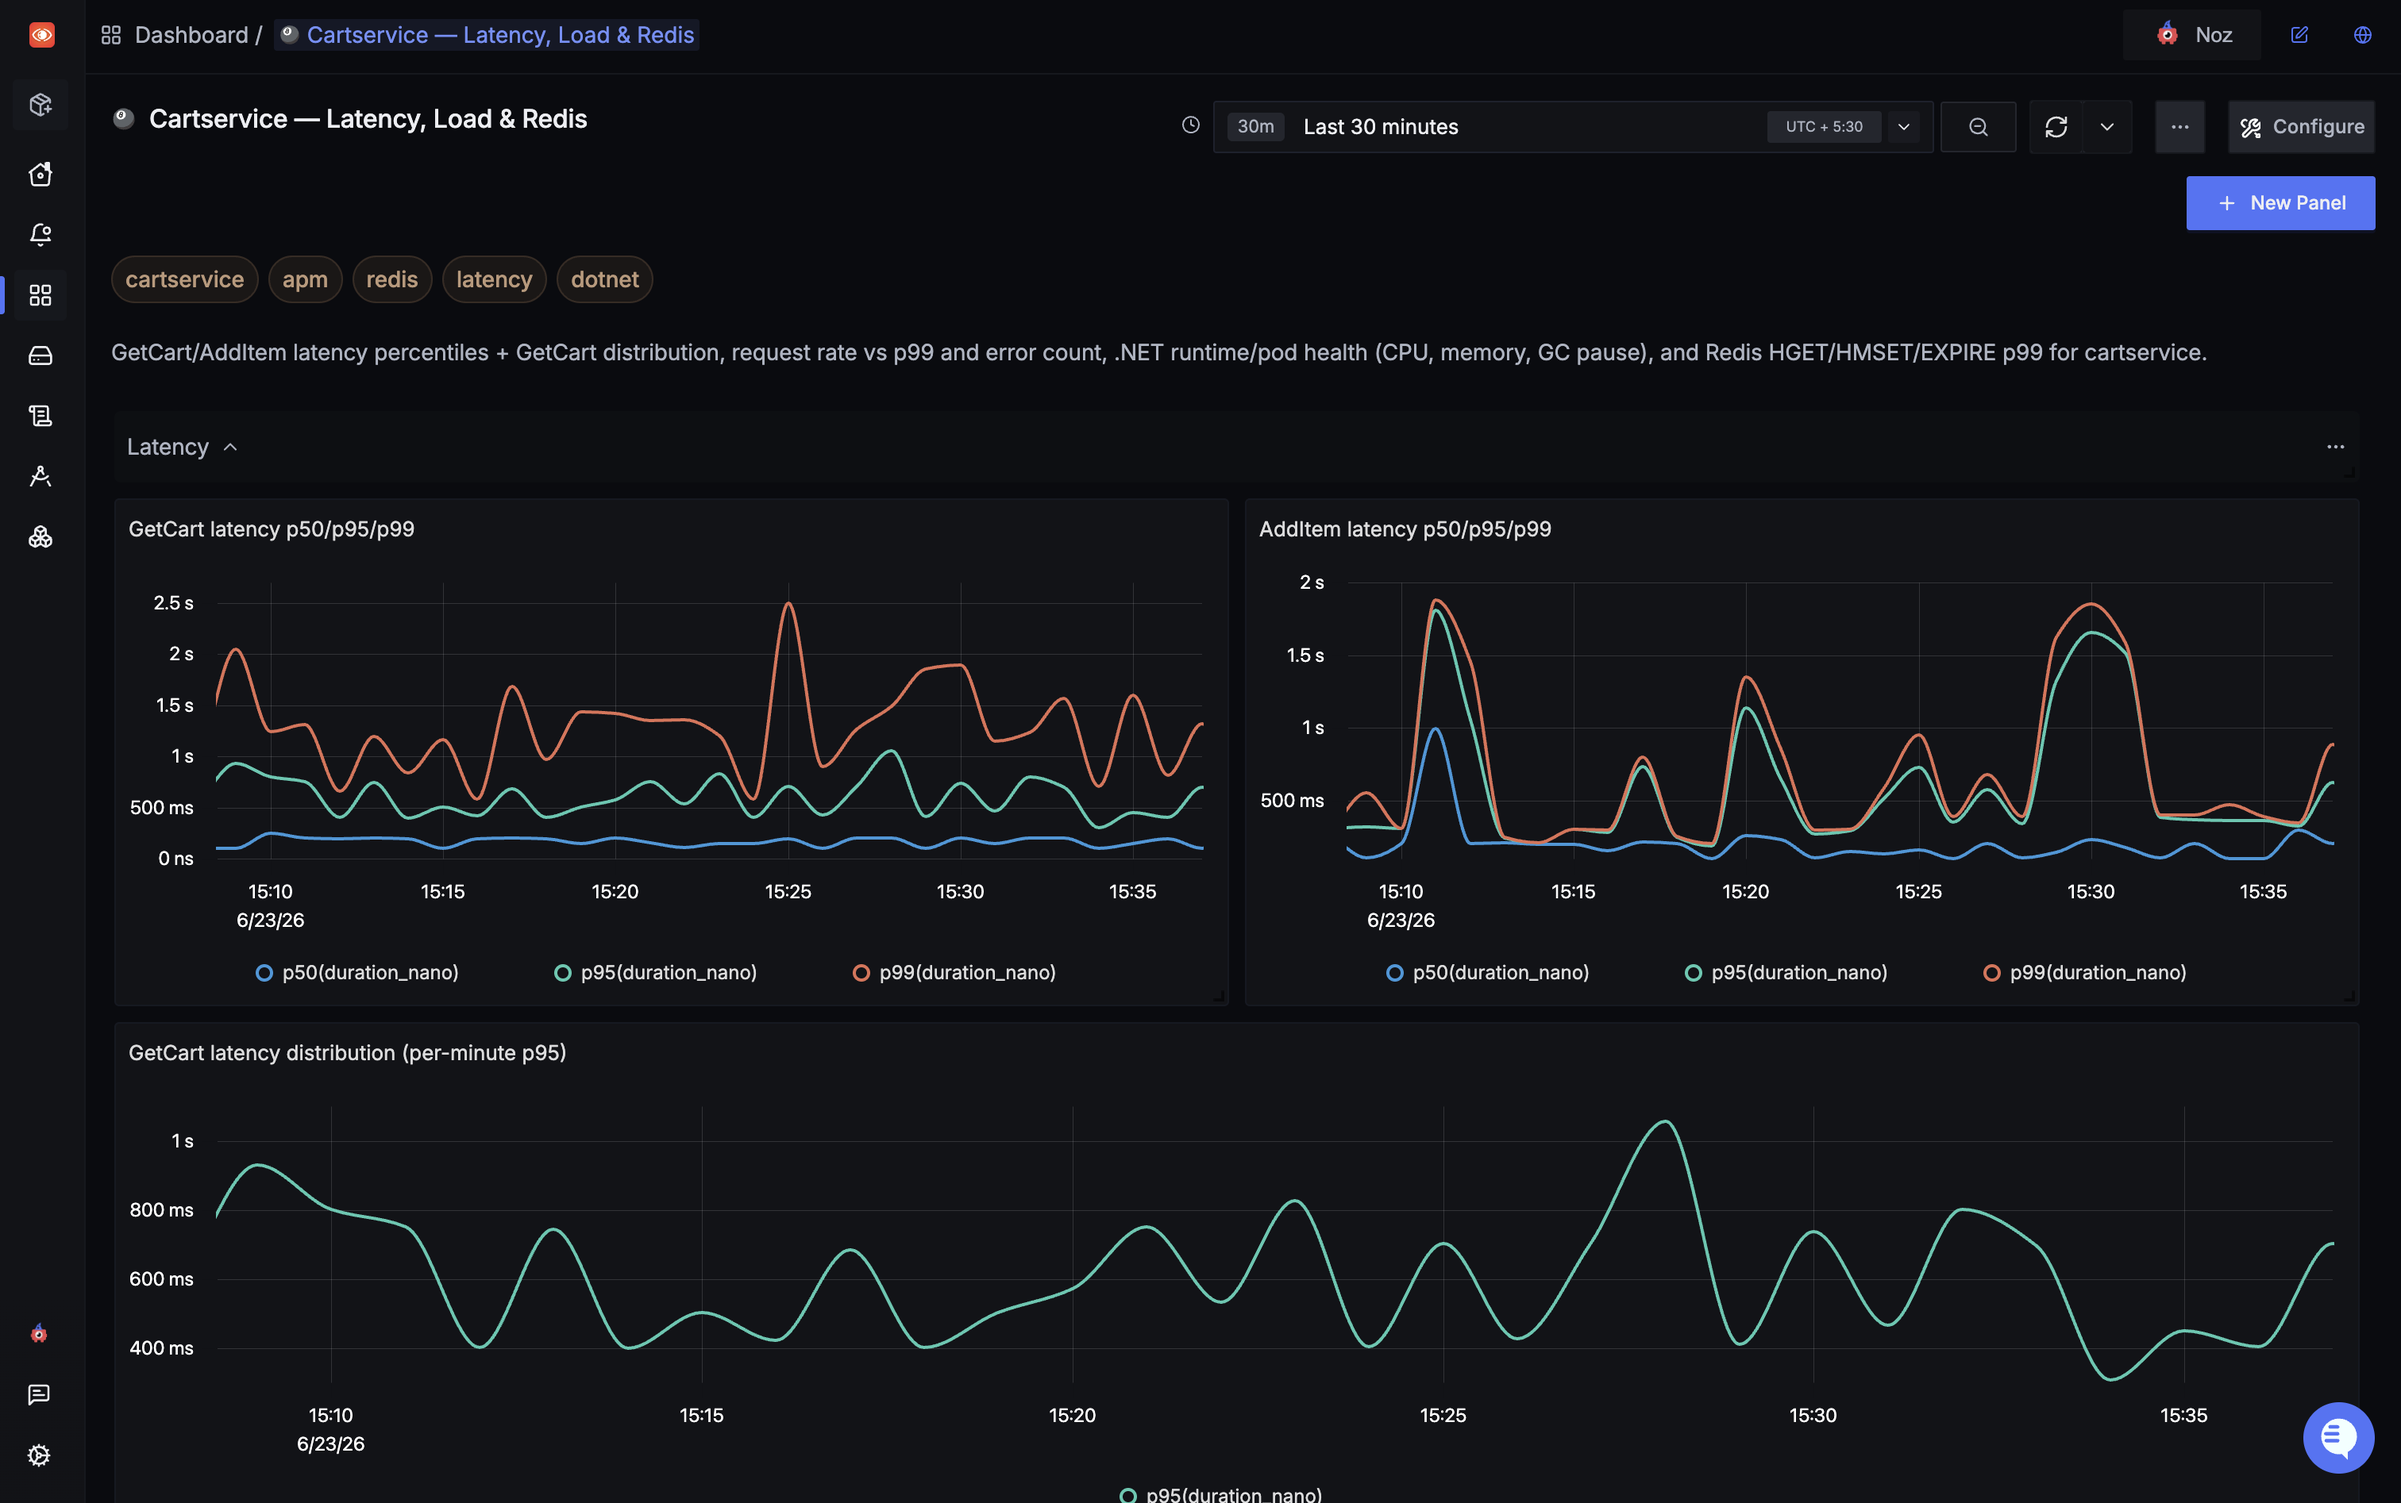
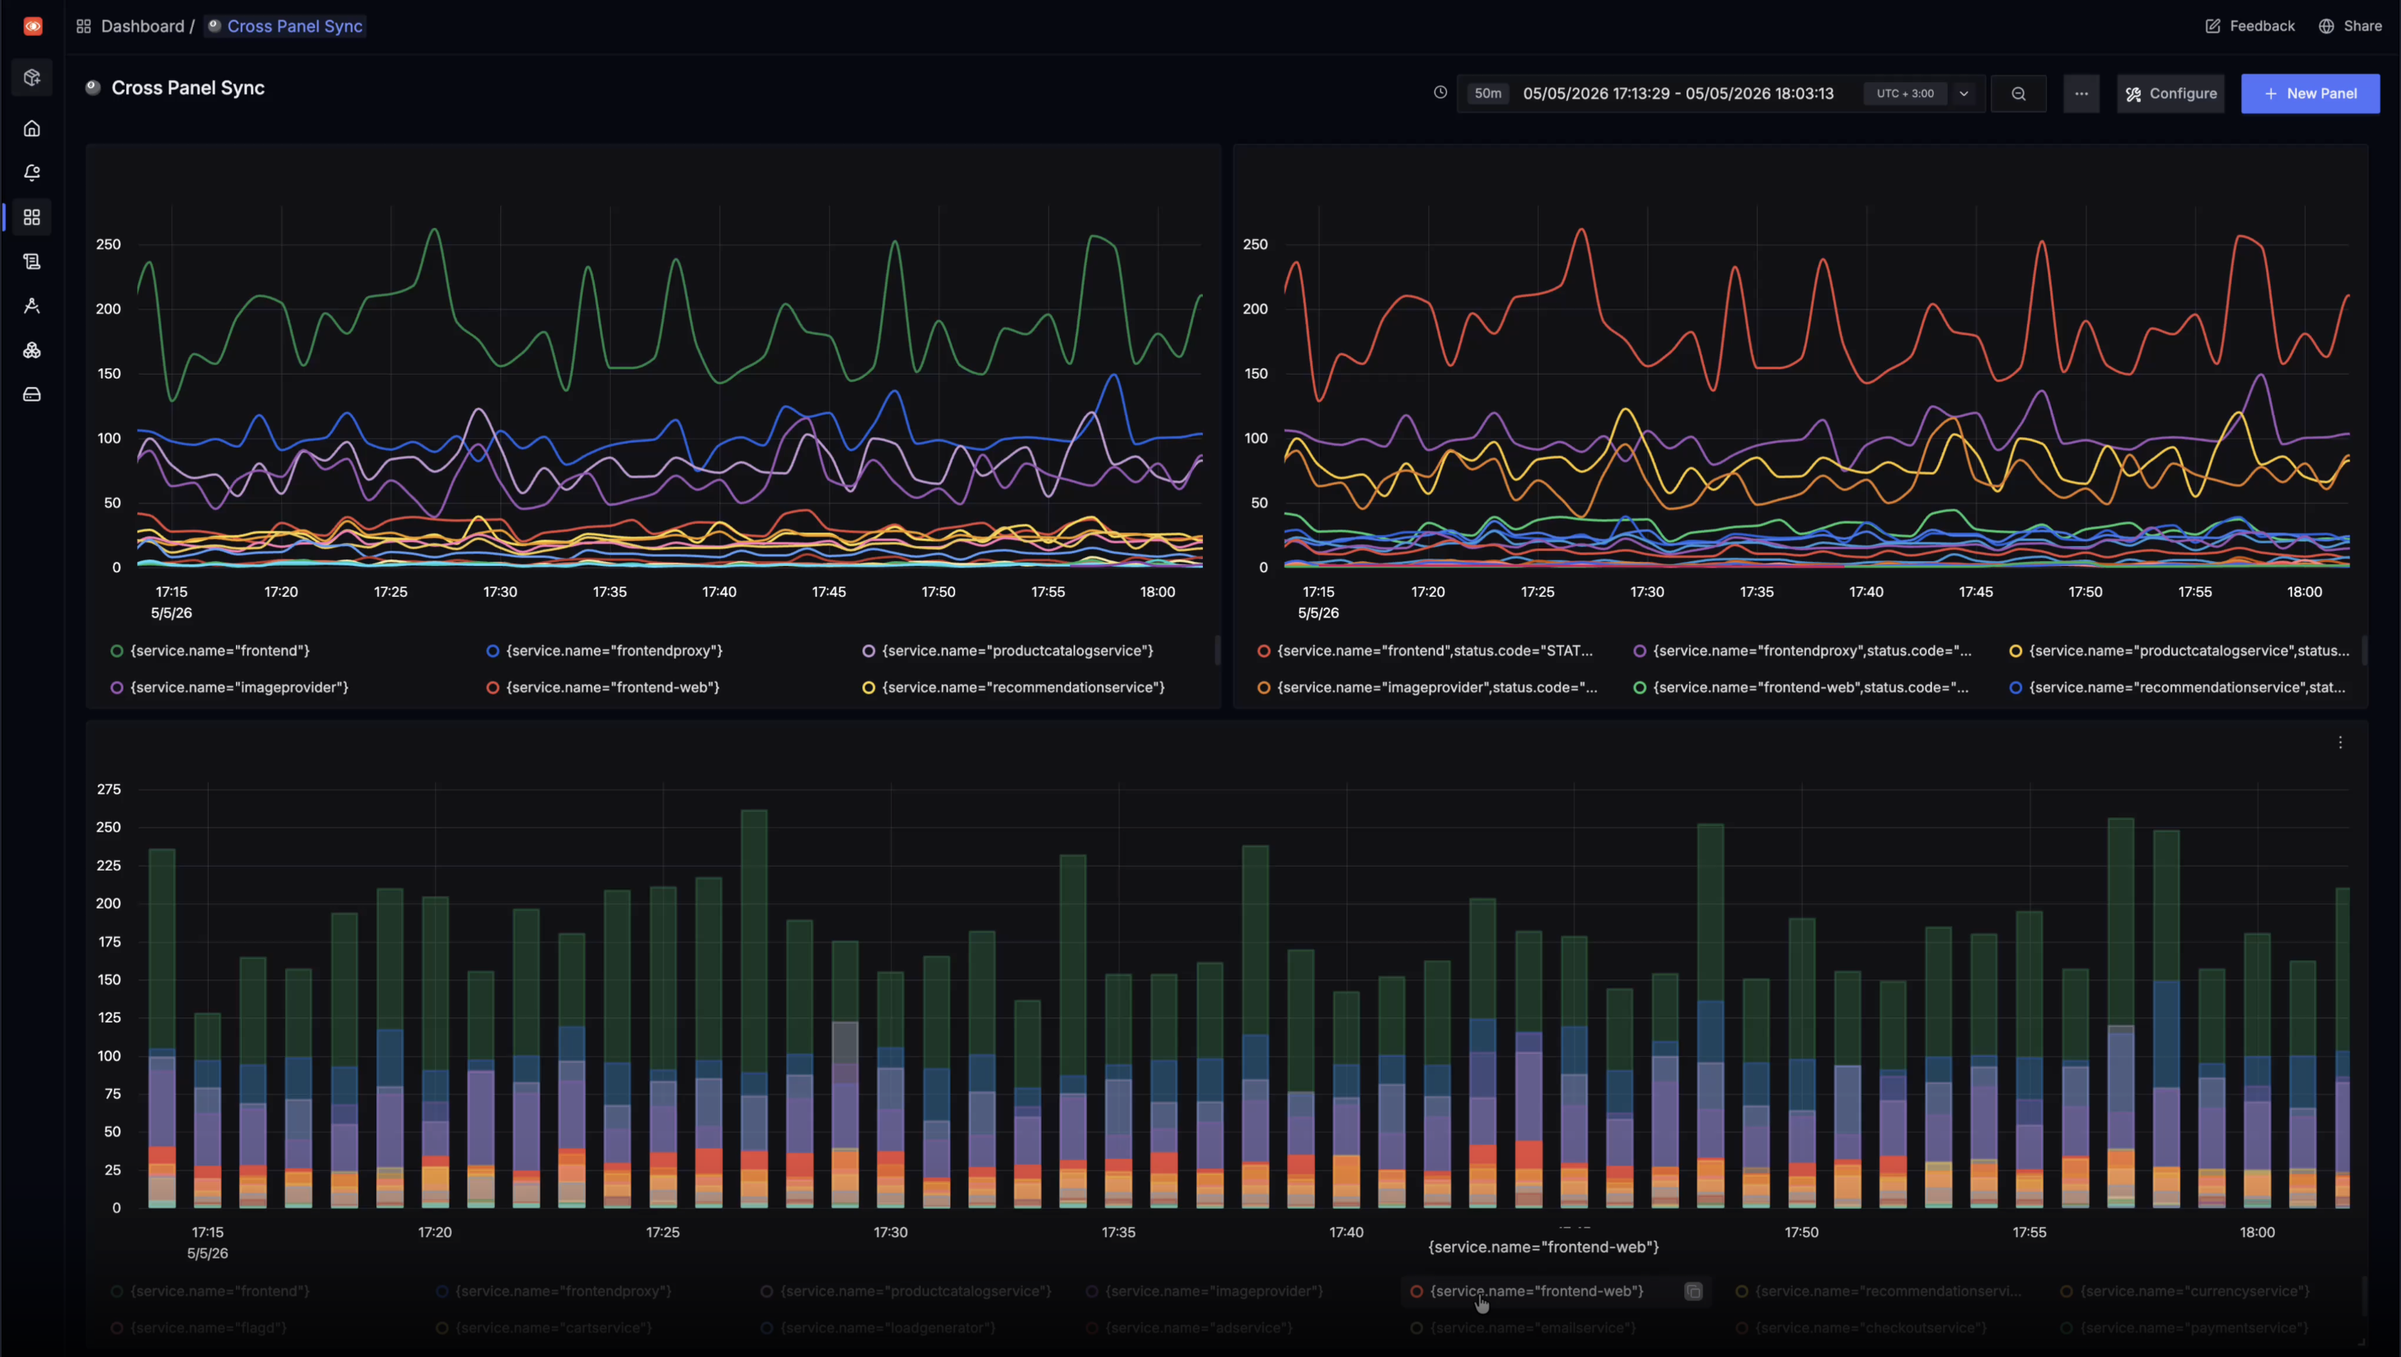
Update homepage dashboard preview

diff --git a/components/index-header/HeroTracePreview.tsx b/components/index-header/HeroTracePreview.tsx
@@ -146,7 +146,7 @@ export default function HeroTracePreview() {
         <AnimatePresence initial={false} mode="popLayout">
           <motion.div
             animate={prefersReducedMotion ? undefined : { opacity: 1, x: 0, filter: 'blur(0px)' }}
-            className="absolute inset-x-0 top-0 [mask-image:linear-gradient(180deg,#000_0%,#000_54%,rgba(0,0,0,0.8)_60%,rgba(0,0,0,0.22)_68%,rgba(0,0,0,0)_78%)]"
+            className="absolute inset-x-0 top-0 [mask-image:linear-gradient(180deg,#000_0%,#000_60%,rgba(0,0,0,0.86)_68%,rgba(0,0,0,0.42)_82%,rgba(0,0,0,0)_96%)]"
             exit={
               prefersReducedMotion
                 ? undefined
@@ -170,7 +170,7 @@ export default function HeroTracePreview() {
             />
           </motion.div>
         </AnimatePresence>
-        <div className="pointer-events-none absolute inset-x-0 bottom-0 h-[52%] bg-[linear-gradient(180deg,rgba(8,9,10,0)_0%,rgba(8,9,10,0.88)_52%,#08090A_100%)]" />
+        <div className="pointer-events-none absolute inset-x-0 bottom-0 h-[38%] bg-[linear-gradient(180deg,rgba(8,9,10,0)_0%,rgba(8,9,10,0.48)_58%,rgba(8,9,10,0.82)_100%)]" />
       </div>
     </motion.div>
   )
